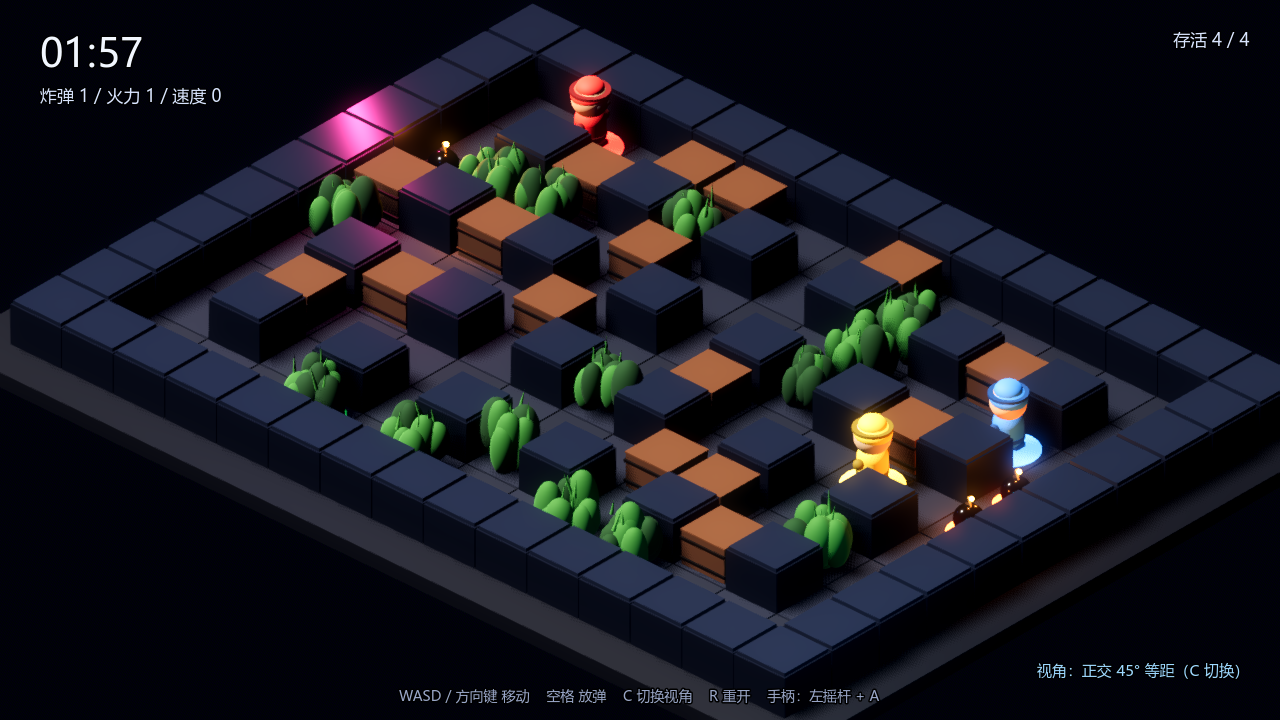
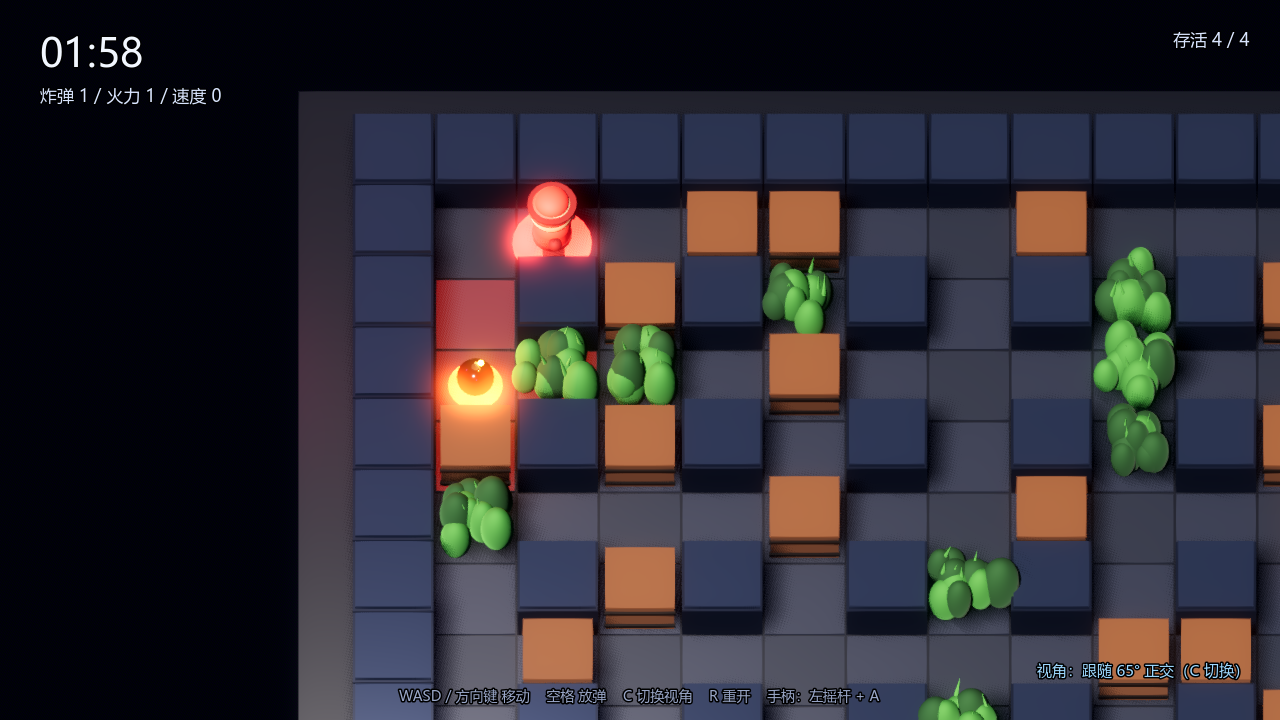
feat(game3d): 换成游玩向视角（全场正交为默认）+ 爆炸范围预演
- 5 种视角：全场正交 45°（默认）/ 跟随 65° 正交 / 跟随 78° 近俯视 / 跟随 55° 透视 / 全场 透视
- 跟随镜头焦点夹在场地内，避免跑到角落时画面一半空白
- 放弹时地面显示爆炸范围，判读不再靠脑补
- 石柱与木箱压矮（1.16 / 1.06），减少遮挡
- 对比图 tools/gen_camera_sheet.py → docs/camera_sheet.png；重新导出 exe

diff --git a/tools/gen_camera_sheet.py b/tools/gen_camera_sheet.py
@@ -1,6 +1,6 @@
-"""把 4 个视角的截图拼成一张对比图，供人眼挑选。
+"""把 5 个游玩视角的截图拼成一张对比图。
 
-输入 game3d/shots/cam_0..3.png，输出 docs/camera_sheet.png。
+输入 game3d/shots/cam_0..4.png，输出 docs/camera_sheet.png。
 用法: python tools/gen_camera_sheet.py
 """
 
@@ -16,39 +16,41 @@ OUT = os.path.join(ROOT, "docs", "camera_sheet.png")
 FONT = "C:/Windows/Fonts/msyh.ttc"
 
 ITEMS = [
-    ("0", "透视 55° · 全场", "有纵深，画面最好看", "远处人物偏小，格子远近不一致", False),
-    ("1", "正交 45° · 等距", "格子等距、判读最准", "画面偏平，没有纵深", True),
-    ("2", "高俯视 70° · 全场", "视野最完整，最像 2D", "角色只剩头顶，表现力弱", False),
-    ("3", "跟随近景 35°", "代入感最强，像动作游戏", "看不到远处，容易被偷", False),
+    ("0", "全场 正交 45°", "全图可见、格子等距，4 人混战最好判读", "角色略小，缺少纵深", True),
+    ("1", "跟随 65° 正交", "人物大、身边 8 格清楚", "看不到远处，容易被偷", False),
+    ("2", "跟随 78° 近俯视", "遮挡最少，最像 2D", "只见头顶，3D 感最弱", False),
+    ("3", "跟随 55° 透视", "纵深强，像动作游戏", "透视让远近格子不等大", False),
+    ("4", "全场 透视 55°", "画面最好看", "远处人物小、判读最差", False),
 ]
 
-W, H = 1480, 1260
-IMG_W, IMG_H = 640, 360
+IMG_W, IMG_H = 560, 315
 CARD_W = IMG_W + 20
 CARD_H = IMG_H + 116
-GAP_X, GAP_Y = 26, 30
-PAD = 40
+GAP_X, GAP_Y = 26, 26
+PAD = 36
+W = PAD * 2 + CARD_W * 2 + GAP_X
+H = 116 + 3 * (CARD_H + GAP_Y) + 40
 
 
 def main() -> None:
     canvas = Image.new("RGB", (W, H), (12, 14, 21))
     d = ImageDraw.Draw(canvas)
     try:
-        title = ImageFont.truetype(FONT, 38)
-        name = ImageFont.truetype(FONT, 24)
-        note = ImageFont.truetype(FONT, 16)
-        small = ImageFont.truetype(FONT, 15)
+        title = ImageFont.truetype(FONT, 36)
+        name = ImageFont.truetype(FONT, 23)
+        note = ImageFont.truetype(FONT, 15)
+        small = ImageFont.truetype(FONT, 14)
     except OSError:
         title = name = note = small = ImageFont.load_default()
 
-    d.text((PAD, 26), "视角方案对比 · 游戏内按 C 循环切换", font=title, fill=(238, 241, 250))
-    d.text((PAD + 2, 76), "同一局、同一时刻的四台相机，只换镜头、不动角色", font=small, fill=(140, 150, 180))
+    d.text((PAD, 26), "游玩视角对比 · 游戏内按 C 切换", font=title, fill=(238, 241, 250))
+    d.text((PAD + 2, 74), "同一局、同一时刻，只换镜头；红/橙色地面格是炸弹爆炸范围预演", font=small, fill=(140, 150, 180))
 
     for i, (key, title_txt, pro, con, rec) in enumerate(ITEMS):
         col = i % 2
         row = i // 2
         x = PAD + col * (CARD_W + GAP_X)
-        y = 116 + row * (CARD_H + GAP_Y)
+        y = 112 + row * (CARD_H + GAP_Y)
 
         d.rounded_rectangle([x, y, x + CARD_W, y + CARD_H], radius=10, fill=(20, 23, 34))
 
@@ -61,19 +63,35 @@ def main() -> None:
 
         if rec:
             d.rounded_rectangle([x, y, x + CARD_W, y + CARD_H], radius=10, outline=(255, 179, 71), width=3)
-            d.rounded_rectangle([x + CARD_W - 96, y + 18, x + CARD_W - 16, y + 50], radius=6, fill=(255, 179, 71))
-            d.text((x + CARD_W - 84, y + 22), "推荐", font=note, fill=(24, 20, 10))
+            d.rounded_rectangle([x + CARD_W - 92, y + 18, x + CARD_W - 16, y + 48], radius=6, fill=(255, 179, 71))
+            d.text((x + CARD_W - 80, y + 21), "推荐", font=note, fill=(24, 20, 10))
 
-        ty = y + IMG_H + 22
+        ty = y + IMG_H + 20
         d.text((x + 14, ty), "%d  %s" % (int(key) + 1, title_txt), font=name, fill=(240, 243, 250))
-        d.text((x + 14, ty + 36), "+ " + pro, font=note, fill=(120, 210, 150))
-        d.text((x + 14, ty + 58), "− " + con, font=note, fill=(225, 130, 130))
+        d.text((x + 14, ty + 34), "+ " + pro, font=note, fill=(120, 210, 150))
+        d.text((x + 14, ty + 56), "− " + con, font=note, fill=(225, 130, 130))
 
-    fy = 116 + 2 * (CARD_H + GAP_Y) + 6
-    d.text((PAD, fy), "怎么选：想看清全场 → 1 或 2；想要动作游戏手感 → 3；想画面最好看 → 1。",
-           font=note, fill=(150, 160, 190))
-    d.text((PAD, fy + 30), "默认已设为「正交 45° 等距」，游戏里按 C 随时切换，不用重开。",
-           font=note, fill=(255, 179, 71))
+    # 最后一格：怎么选
+    col = 0
+    row = 2
+    x = PAD + col * (CARD_W + GAP_X)
+    y = 112 + row * (CARD_H + GAP_Y)
+    x = PAD + (CARD_W + GAP_X)
+    d.rounded_rectangle([x, y, x + CARD_W, y + CARD_H], radius=10, fill=(18, 21, 31), outline=(70, 80, 110), width=1)
+    d.text((x + 18, y + 18), "怎么选", font=name, fill=(255, 179, 71))
+    lines = [
+        "想赢 → 1（全场正交）：4 人混战要看得全。",
+        "想有代入感 → 2 或 4：人物大，但只能看到身边。",
+        "想拍图/宣传 → 5（全场透视）：最好看。",
+        "",
+        "另外两处已按“能玩”改过：",
+        "· 石柱/木箱压矮，减少遮挡；",
+        "· 放弹时地面亮出爆炸范围，不再靠脑补。",
+    ]
+    ly = y + 58
+    for line in lines:
+        d.text((x + 18, ly), line, font=note, fill=(180, 190, 215))
+        ly += 30
 
     canvas.save(OUT)
     print("wrote", os.path.relpath(OUT, ROOT), canvas.size)

diff --git a/game3d/README.md b/game3d/README.md
@@ -96,4 +96,90 @@ _tools\godot\Godot_v4.7.2-stable_win64.exe --path game3d -- shot                
 - 单人 vs AI，没有联机，也没有本地双人（3D 分屏是另一个量级的工作）。
 - 单局制，没有三局两胜与结算面板（2D 版有）。
 - 手感和平衡是首版：AI 只有一档难度，镜头不做自由旋转（避免眩晕）。
+- 隐蔽机制为了可读性做了妥协：**你自己进草是半透明的**（能看见自己），对手则是完全隐藏。## 视角：5 种，按 `C` 循环
+
+![视角对比](../docs/camera_sheet.png)
+
+| # | 视角 | 适合 | 代价 |
+|---|---|---|---|
+| 1 | **全场 正交 45°（默认）** | 4 人混战要看得全 | 角色略小 |
+| 2 | 跟随 65° 正交 | 人物大、身边 8 格清楚 | 看不到远处 |
+| 3 | 跟随 78° 近俯视 | 遮挡最少 | 只见头顶 |
+| 4 | 跟随 55° 透视 | 纵深强、像动作游戏 | 远近格子不等大 |
+| 5 | 全场 透视 55° | 画面最好看 | 判读最差 |
+
+默认是「全场正交」：**正交没有透视变形，格子等距**，4 个人在地图上跑的时候，
+你看到的距离就是真实距离——这对炸弹游戏是刚需（判断“炸不炸得到”全靠这个）。
+
+为了让 3D 真的能玩，另外改了三处：
+
+- 石柱 1.34→1.16、木箱 1.18→1.06，压低遮挡；
+- **放弹时地面亮出爆炸范围**（红橙色格），不用再靠脑补；
+- 跟随镜头的焦点夹在场地内，跑到角落时画面不会被空白吃掉一半。
+
+## 混搭场地
+
+| 元素 | 挡移动 | 挡爆炸 | 挡视线 | 掉道具 |
+|---|---|---|---|---|
+| 石柱 | ✓ | ✓ | ✓ | ✗ |
+| 木箱 | ✓ | ✓ | ✓ | ✓ |
+| 草丛 | ✗ | ✗ | ✓ | ✗ |
+
+- **进草丛自动隐蔽**：对手看不到你（你的模型半透明，对手的模型完全隐藏），放弹会暴露 1.4 秒。
+- **爆炸会把草压塌 3 秒**：倒伏期间不挡视线，是探草的主要手段。
+- 箱子会越炸越少，草不会——所以一局会自然从“通道战”过渡到“草丛伏击战”。
+
+![交火](shots/g3d_02_fight.png)
+
+## AI 会做什么
+
+- 危险图 + 安全 BFS（放弹前先算退路）；
+- **视线感知**：草和箱子挡住视线时看不到你，只记得你最后出现的位置；
+- **探草**：看到你钻进草里，会走到草边丢一发弹；
+- **蹲草**：30% 概率在没目标时猫进草里，蹲 3–6 秒后强制出来（有冷却，防止挂机）；
+- **追击**：看不见人时也会朝最近的对手压过去，不会原地发呆。
+
+## 和 2D 版的差异
+
+| | 2D 版 | 3D 版 |
+|---|---|---|
+| 镜头 | 固定正交俯视 | 固定 55° 俯角，带轻微跟随偏移 |
+| 场地 | 石墙 + 木箱 | 石柱 + 木箱 + 草丛 |
+| 隐蔽 | 无 | 草里隐身、放弹暴露、爆炸压草 |
+| 角色表现 | 像素精灵 | 程序化 Q 版模型 + 脚下光圈 |
+| 局数 | 三局两胜 | 单局（重开按 R） |
+
+## 工程结构
+
+```
+game3d/
+  main.tscn                入口
+  src/main.gd              场景、回合、输入、爆炸、隐蔽、镜头
+  src/tile_world.gd        网格数据、混搭地形生成、视线与爆炸范围
+  src/hero3d.gd            角色模型与格子移动
+  src/bomb3d.gd            炸弹表现
+  src/blast3d.gd           爆炸表现
+  src/bot3d.gd             AI（危险图 / 感知 / 蹲草 / 探草）
+  src/hud3d.gd             HUD
+  src/look.gd              材质、网格、环境、灯光
+  assets/audio/            复用 2D 版合成的音效
+  shots/                   自动截图
+```
+
+## 自测
+
+```powershell
+_tools\godot\Godot_v4.7.2-stable_win64.exe --headless --path game3d -- selftest    # 逻辑：跑一整局并断言
+_tools\godot\Godot_v4.7.2-stable_win64.exe --headless --path game3d -- inputtest   # 输入通路：模拟按键
+_tools\godot\Godot_v4.7.2-stable_win64.exe --path game3d -- shot                   # 四个阶段截图
+```
+
+`selftest` 断言：必然产生炸弹、爆炸、木箱破坏、击杀，且对局在 300 秒内结束。
+`inputtest` 注入真实的 `InputEventKey`，验证按 D 能移动、按空格能放弹。
+
+## 已知限制
+
+- 单人 vs AI，没有联机，也没有本地双人（3D 分屏是另一个量级的工作）。
+- 单局制，没有三局两胜与结算面板（2D 版有）。
+- 手感和平衡是首版：AI 只有一档难度，镜头不做自由旋转（避免眩晕）。
 - 隐蔽机制为了可读性做了妥协：**你自己进草是半透明的**（能看见自己），对手则是完全隐藏。
